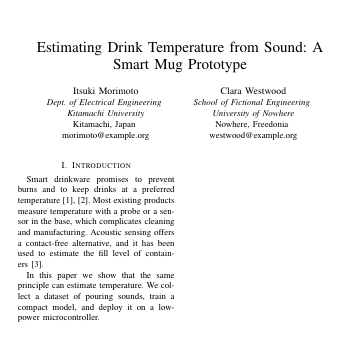
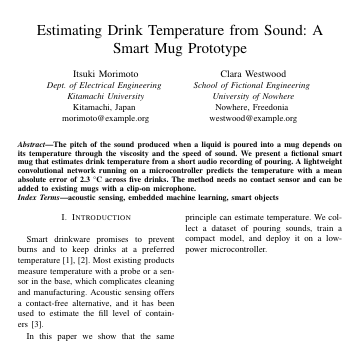
IEEEtran の conference モードで Abstract が消える不具合を直す
conference モードでは \IEEEaftertitletext がロックされていて、
\IEEEoverridecommandlockouts を書いていない論文では Abstract が黙って捨てられていた。
IEEEtran のスタイルで常にロックを解除する。

Changed region(s): [[0.0306, 0.0611, 0.9472, 0.9472]]

diff --git a/tests/patch.test.ts b/tests/patch.test.ts
@@ -175,6 +175,9 @@ describe('original：IEEEtran conference', () => {
     expect(full.source).toContain('\\@ifundefined{mug@origtitle}{\\let\\mug@origtitle\\@title\\def\\@title{\\mug@titletop\\mug@titlesize\\mug@origtitle\\mug@titleend}}{}');
     expect(full.source).toContain('\\write-1{MUG-TITLEEND=\\the\\pdflastypos}');
   });
+  it('conference モードの \\IEEEaftertitletext のロックを解除する（解除しないと Abstract が黙って捨てられる）', () => {
+    expect(full.source).toContain('\\IEEEoverridecommandlockouts');
+  });
   it('タイトル部分の後の、行を格子に揃えるための空きを入れない', () => {
     expect(full.source).toContain('\\long\\def\\IEEEquantizevspace#1[#2]#3[#4]#5#6#7{#1}');
   });

diff --git a/src/styles/ieeetran/original-preamble.tex b/src/styles/ieeetran/original-preamble.tex
@@ -1,3 +1,6 @@
+% [paper-mug] conference モードでは \IEEEaftertitletext がロックされていて、\IEEEoverridecommandlockouts を書いた論文でしか使えない。
+% Abstract をタイトル直下に移すのに使うので、常に解除する
+\IEEEoverridecommandlockouts
 % [paper-mug] \maketitle はタイトル部分の後に、2 段組の本文の行を格子に揃えるための空き（conference で 1〜2 行分）を
 % \IEEEquantizevspace で入れる。Abstract を間に挟むと揃える意味がなく、著者欄と Abstract の間が空きすぎるので、
 % タイトル部分をそのまま出すだけにする。
